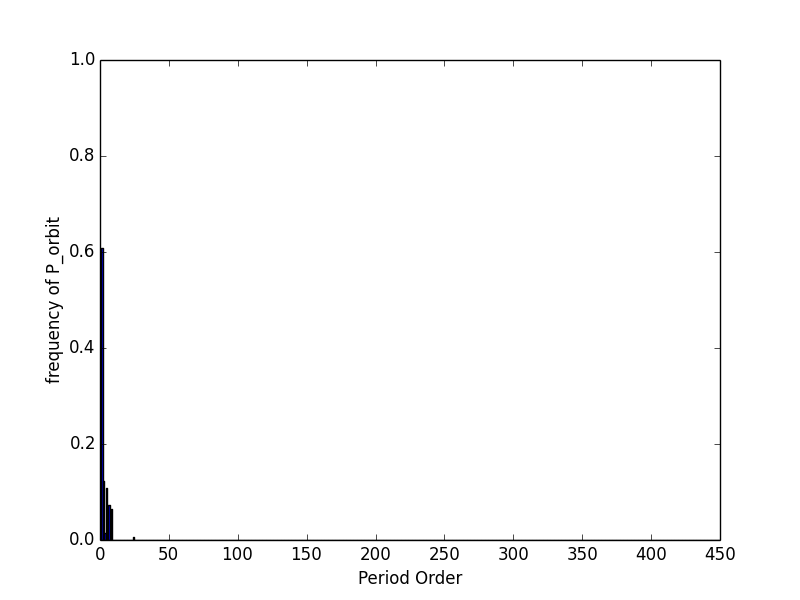
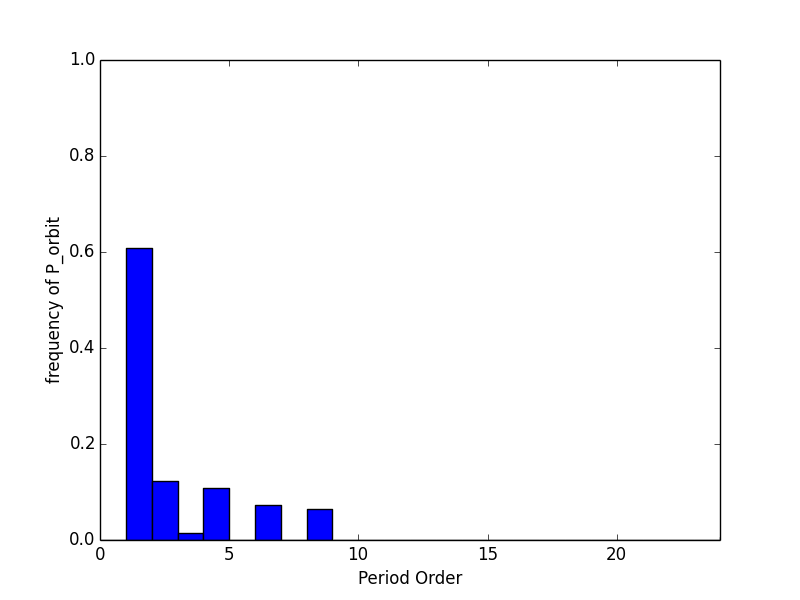
result.csv

diff --git a/python_code/unique.py b/python_code/unique.py
@@ -13,8 +13,9 @@ csvf = open(sys.argv[1], 'r')
 
 csvreader = csv.reader(csvf)
 data =[]
+maxp = 0
 #csvreader.next() # skip first row
-#pdb.set_trace()
+#pdb.iset_trace()
 for index,row in enumerate(csvreader):
     flag = False
     for i in data:
@@ -23,7 +24,8 @@ for index,row in enumerate(csvreader):
             break
     if (flag == False):
         data.append(row)  
-    print row
+    if (int(row[2])>maxp):
+        maxp = int(row[2])
 csvf.close()
 
 #print data
@@ -35,14 +37,15 @@ for row in data:
 #for i in count:
  #   i = i/len(data)
 count = count /len(data)
-
+print maxp
 #print len(data)
 #plt.xrange(0,451)
 plt.bar(range(0,451),count,width=1)
-plt.xlim([0,450])
+plt.xlim([0,maxp])
 plt.ylim([0,1])
 plt.xlabel("Period Order")
 plt.ylabel("frequency of P_orbit")
+
 plt.savefig("test.png")
 
 
